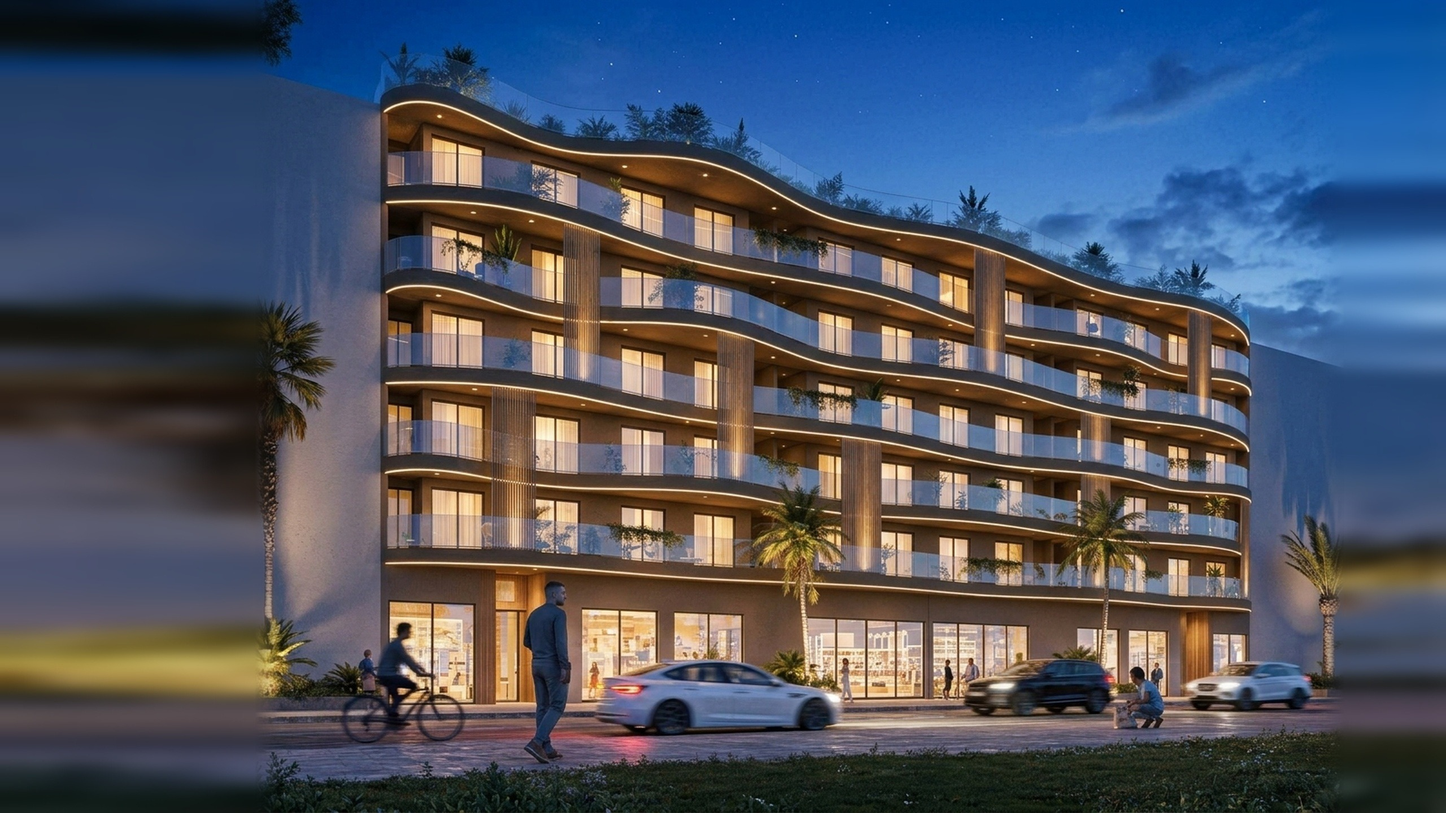
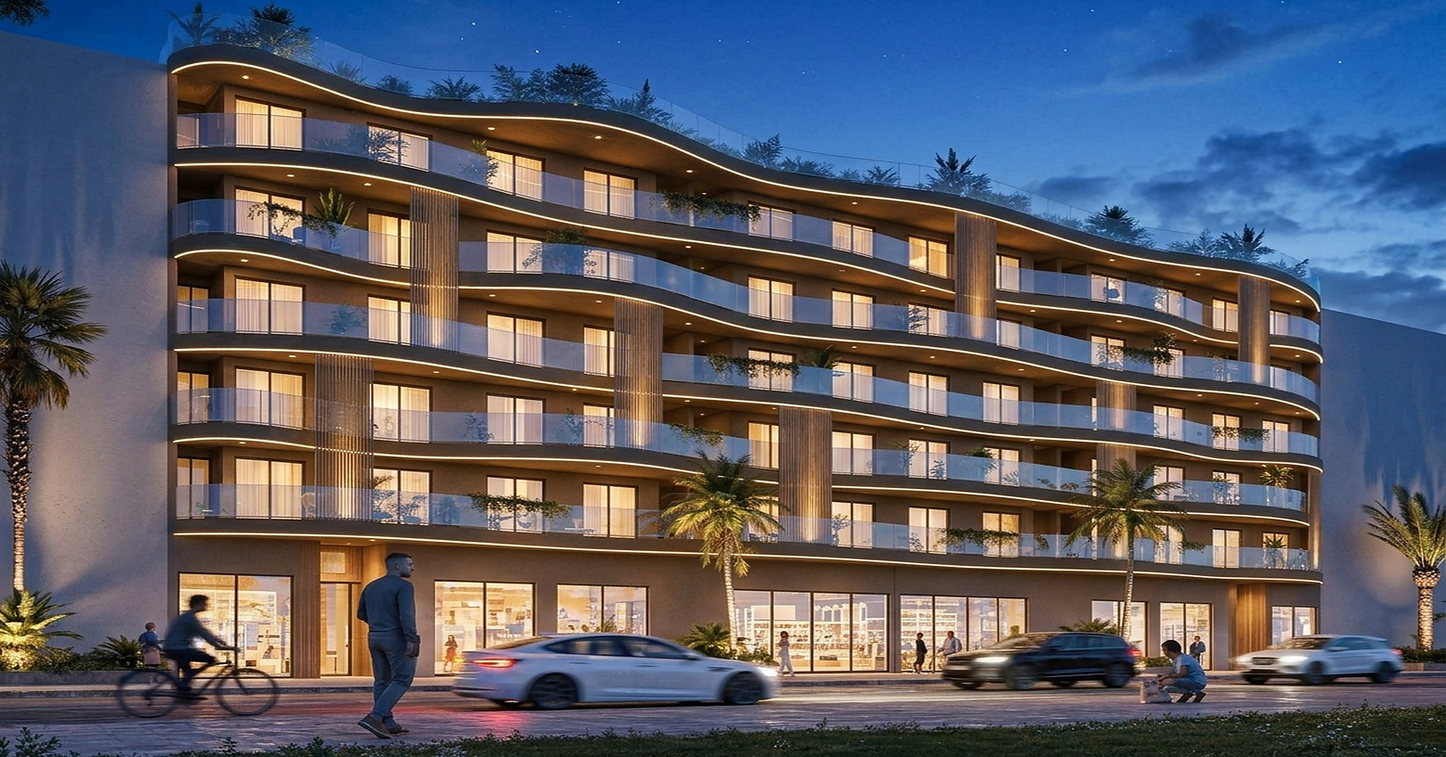
fix(residences): full-bleed 100% edge-to-edge screen coverage without side bars for night facade hero

diff --git a/src/residences.css b/src/residences.css
@@ -46,8 +46,8 @@ footer {
   left: 0;
   width: 100%;
   height: 100%;
-  object-fit: cover;
-  object-position: center bottom;
+  object-fit: fill;
+  object-position: center center;
   filter: brightness(1.02) contrast(1.02);
   transform: none;
   transition: transform 1.2s cubic-bezier(0.2, 0.9, 0.3, 1);
@@ -120,7 +120,8 @@ footer {
     align-items: center;
   }
   .residences-hero-bg {
-    object-position: 65% bottom;
+    object-fit: cover;
+    object-position: 55% bottom;
     transform: none;
   }
   .residences-hero-content {

diff --git a/residences.html b/residences.html
@@ -174,7 +174,7 @@
        ========================================================================== -->
   <section id="Hero" class="residences-hero">
     <img
-      src="/jardins_de_bali/14_rendu_3d_facade_rue_nuit.jpg?v=20261109"
+      src="/jardins_de_bali/14_rendu_3d_facade_rue_nuit.jpg?v=20261109b"
       alt="Jardins de Bali Marrakech Menara Residences"
       class="residences-hero-bg"
       loading="eager"
